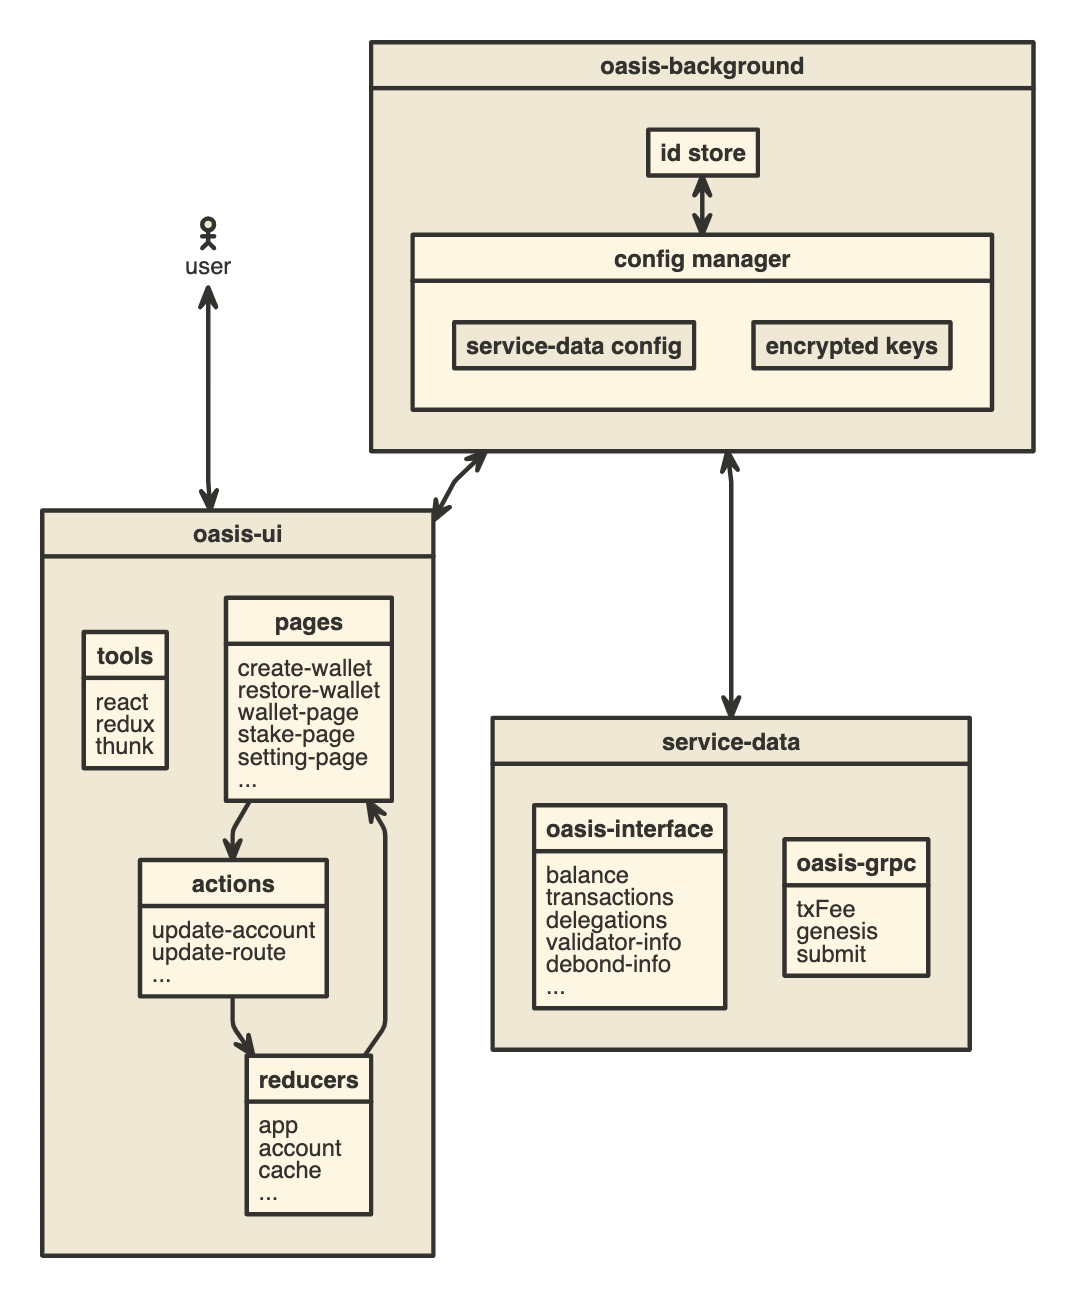
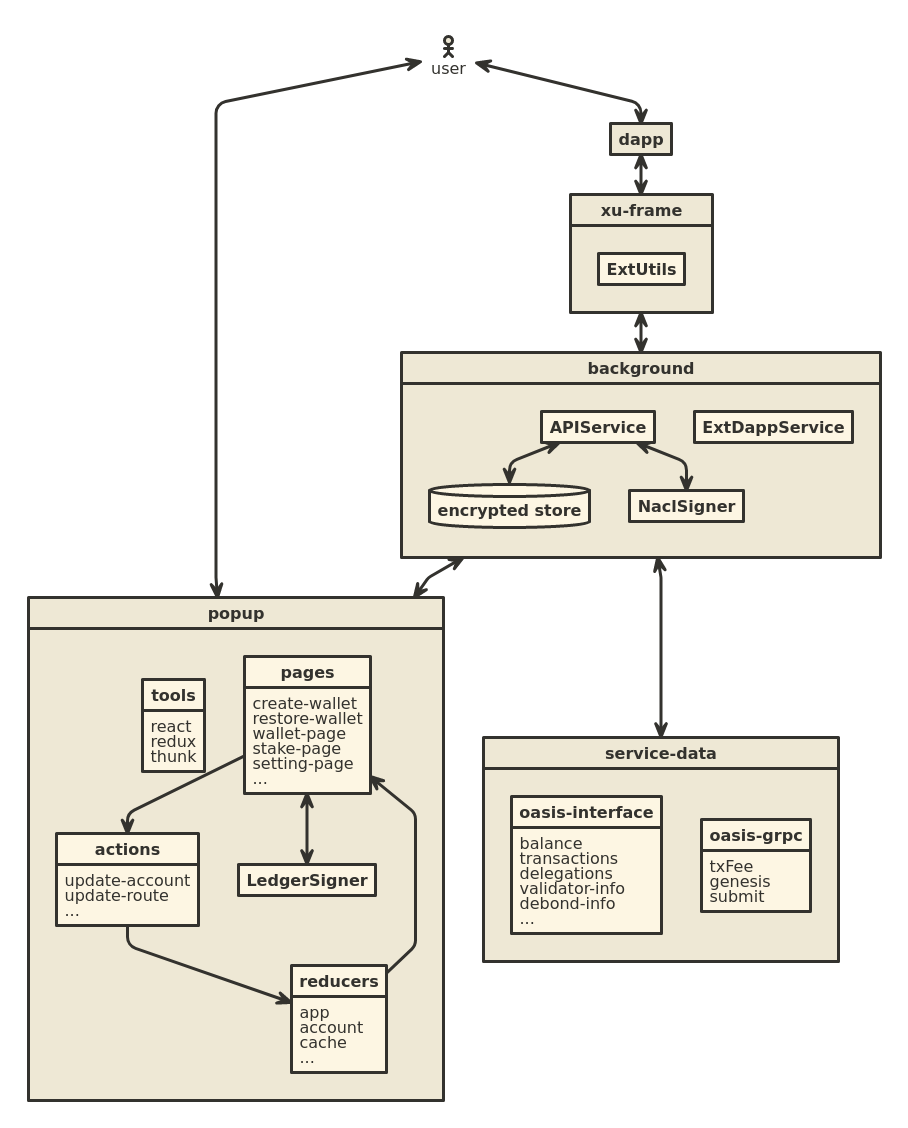
README: update architecture section

diff --git a/README.md b/README.md
@@ -46,20 +46,24 @@ ROSE tokens, including everything for convenient staking of your ROSE tokens.
 
 ## Architecture
 
-- Oasis-background
-    - ApiService  (wallet info storage and deal)
-    - ExtDAppService (wallet and dapp connet)
+The extension is rougly laid out this way:
 
-- Service-data
-    - oasis-interface (get balance tx-history and stake-info data from [oasisscan](https://api.oasisscan.com/mainnet))
-    - oasis-grpc (get nonce , feeGas ,context and submit with [oasisscan-grpc](https://grpc-mainnet.oasisscan.com))
+- background - the extension's background page
+    - APIService (wallet info storage, in-memory transaction signing, transaction submission)
+    - ExtDAppService (DApp interface, handles requests from xu-frame)
 
+- service-data - connections to the network and block explorer
+    - OASISSCAN (provided by [oasisscan](https://api.oasisscan.com/mainnet))
+    - Oasis gRPC-web (provided by [oasisscan-grpc](https://grpc-mainnet.oasisscan.com))
 
-- Oasis-ui
-    - page (all the page that you see)
+- popup - interactive parts
+    - pages (UI, Ledger transaction signing)
     - actions (reducer action)
     - reducer
 
+- xu-frame - a page that handles communication with DApps
+    - File is in background/ExtUtils.js, but it is actually loaded in this frame
+    - Oasis SDK ext-utils handlers
 
 [![Architecture Diagram](./docs/oasis-nomnoml.png)][1]
 
@@ -99,4 +103,4 @@ yarn buildProd
 
 [Apache License 2.0](LICENSE)
 
-[1]:https://www.nomnoml.com/#view/%5B%3Cactor%3Euser%5D%0A%0A%5Boasis-ui%7C%0A%20%20%20%5Btools%7C%0A%20%20%20%20%20react%0A%20%20%20%20%20redux%0A%20%20%20%20%20thunk%0A%20%20%20%5D%0A%20%20%20%5Bpages%7C%0A%20%20%20%20%20create-wallet%0A%20%20%20%20%20restore-wallet%0A%20%20%20%20%20wallet-page%0A%20%20%20%20%20stake-page%0A%20%20%20%20%20setting-page%0A%20%20%20%20%20...%0A%20%20%20%5D%0A%20%20%20%5Breducers%7C%0A%20%20%20%20%20app%0A%20%20%20%20%20account%0A%20%20%20%20%20cache%0A%20%20%20%20%20...%0A%20%20%20%5D%0A%20%20%20%5Bactions%7C%0A%20%20%20%20%20update-account%0A%20%20%20%20%20update-route%0A%20%20%20%20%20...%0A%20%20%20%5D%0A%20%20%20%5Bpages%5D%3A-%3E%5Bactions%5D%0A%20%20%20%5Bactions%5D%3A-%3E%5Breducers%5D%0A%20%20%20%5Breducers%5D%3A-%3E%5Bpages%5D%0A%5D%0A%5Buser%5D%3C-%3E%5Boasis-ui%5D%0A%0A%0A%5Boasis-background%7C%0A%20%20%0A%20%20%5Bid%20store%5D%0A%20%20%0A%20%20%5Bconfig%20manager%7C%0A%20%20%20%20%5Bservice-data%20config%5D%0A%20%20%20%20%5Bencrypted%20keys%5D%0A%20%20%5D%0A%20%20%0A%20%20%5Bid%20store%5D%3C-%3E%5Bconfig%20manager%5D%0A%5D%0A%0A%5Bservice-data%20%7C%0A%20%20%5Boasis-interface%20%7C%0A%20%20%20%20balance%0A%20%20%20%09transactions%0A%20%20%20%20delegations%0A%20%20%20%09validator-info%0A%20%20%20%20debond-info%0A%20%20%20%20...%0A%20%20%5D%0A%20%20%5Boasis-grpc%20%7C%0A%20%20%09txFee%0A%20%20%20%20genesis%0A%20%20%20%20submit%0A%20%20%5D%0A%5D%0A%0A%5Boasis-background%5D%3C-%3E%5Boasis-ui%5D%0A%5Boasis-background%5D%3C-%3E%5Bservice-data%5D%0A
+[1]:https://www.nomnoml.com/#view/%5B%3Cactor%3Euser%5D%0A%0A%5Bbackground%7C%0A%09%5BAPIService%5D%20%3C-%3E%20%5B%3Cdatabase%3Eencrypted%20store%5D%0A%20%20%20%20%5BAPIService%5D%20%3C-%3E%20%5BNaclSigner%5D%0A%09%5BExtDappService%5D%0A%5D%0A%0A%5Bbackground%5D%20%3C-%3E%20%5Bpopup%5D%0A%0A%5Bpopup%7C%0A%20%20%20%5Btools%7C%0A%20%20%20%20%20react%0A%20%20%20%20%20redux%0A%20%20%20%20%20thunk%0A%20%20%20%5D%0A%20%20%20%5Bpages%7C%0A%20%20%20%20%20create-wallet%0A%20%20%20%20%20restore-wallet%0A%20%20%20%20%20wallet-page%0A%20%20%20%20%20stake-page%0A%20%20%20%20%20setting-page%0A%20%20%20%20%20...%0A%20%20%20%5D%0A%20%20%20%5Bpages%5D%20%3C-%3E%20%5BLedgerSigner%5D%0A%20%20%20%5Breducers%7C%0A%20%20%20%20%20app%0A%20%20%20%20%20account%0A%20%20%20%20%20cache%0A%20%20%20%20%20...%0A%20%20%20%5D%0A%20%20%20%5Bactions%7C%0A%20%20%20%20%20update-account%0A%20%20%20%20%20update-route%0A%20%20%20%20%20...%0A%20%20%20%5D%0A%20%20%20%5Bpages%5D%3A-%3E%5Bactions%5D%0A%20%20%20%5Bactions%5D%3A-%3E%5Breducers%5D%0A%20%20%20%5Breducers%5D%3A-%3E%5Bpages%5D%0A%5D%0A%5Buser%5D%3C-%3E%5Bpopup%5D%0A%0A%5Bservice-data%20%7C%0A%20%20%5Boasis-interface%20%7C%0A%20%20%20%20balance%0A%20%20%20%09transactions%0A%20%20%20%20delegations%0A%20%20%20%09validator-info%0A%20%20%20%20debond-info%0A%20%20%20%20...%0A%20%20%5D%0A%20%20%5Boasis-grpc%20%7C%0A%20%20%09txFee%0A%20%20%20%20genesis%0A%20%20%20%20submit%0A%20%20%5D%0A%5D%0A%0A%5Bbackground%5D%3C-%3E%5Bservice-data%5D%0A%0A%5Bxu-frame%7C%0A%20%20%20%20%5BExtUtils%5D%0A%5D%0A%5Buser%5D%20%3C-%3E%20%5Bdapp%5D%0A%5Bdapp%5D%20%3C-%3E%20%5Bxu-frame%5D%0A%5Bxu-frame%5D%20%3C-%3E%20%5Bbackground%5D%0A%0A%0A%0A%0A%0A
